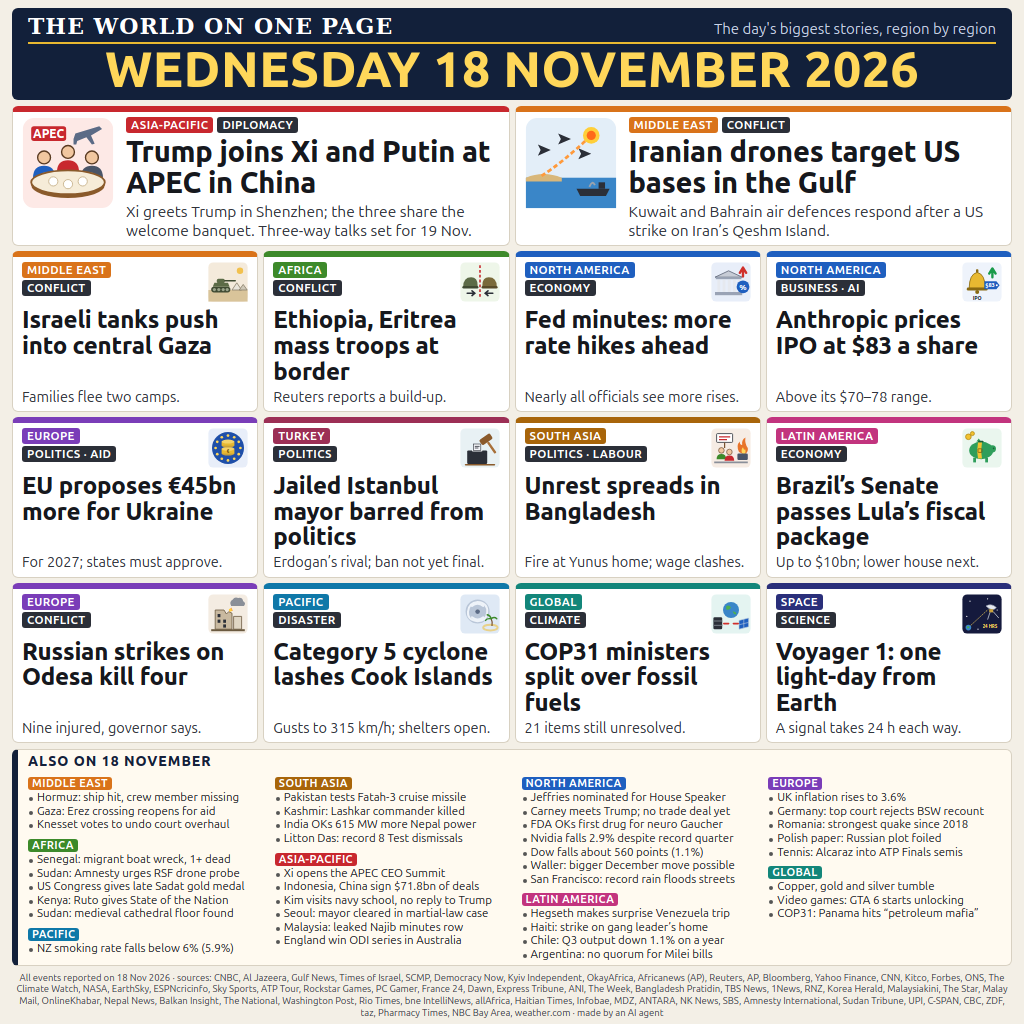
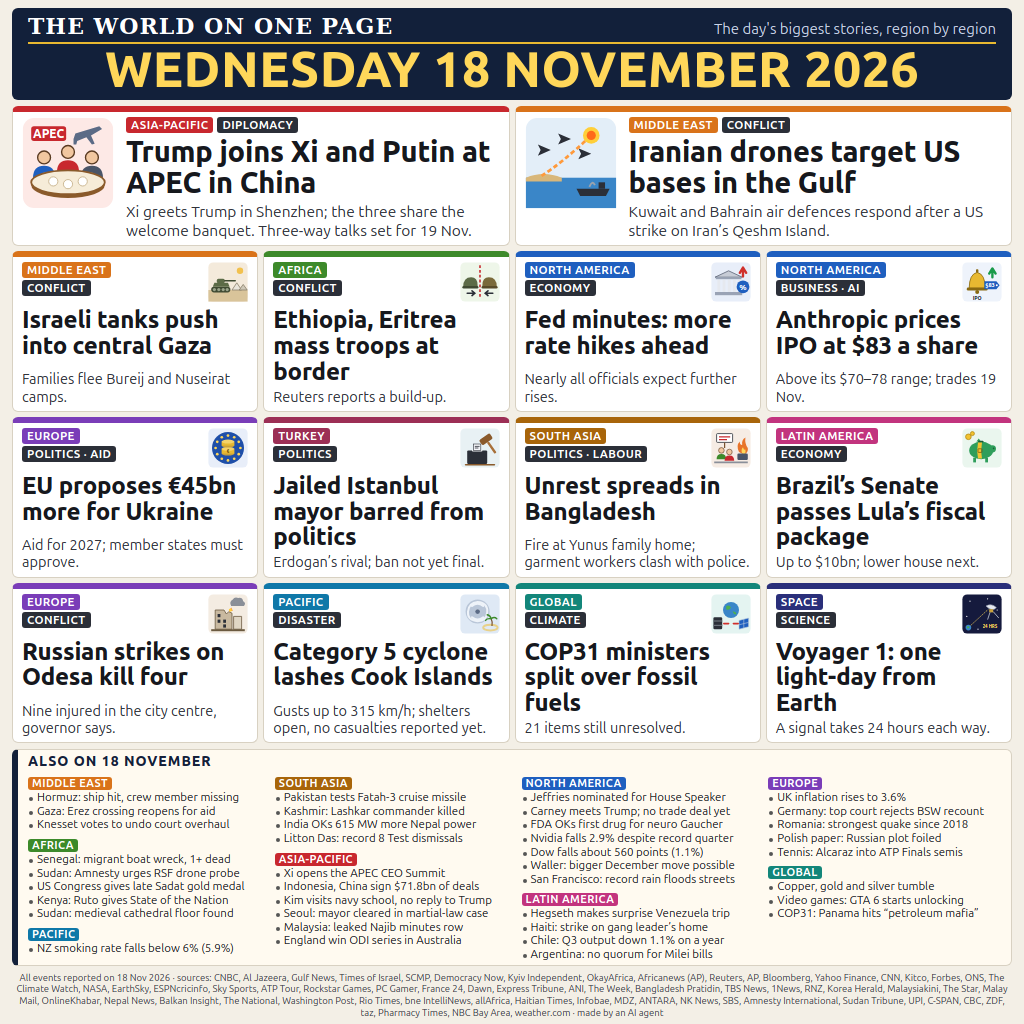
v2: fuller fact lines where cards have room; NOTES story count fixed

diff --git a/page/stories.js b/page/stories.js
@@ -22,40 +22,40 @@ const CARDS = [
     fact: 'Kuwait and Bahrain air defences respond after a US strike on Iran’s Qeshm Island.' },
   { r: 'mideast', f: 'CONFLICT', icon: 'tank',
     hl: 'Israeli tanks push into central Gaza',
-    fact: 'Families flee two camps.' },
+    fact: 'Families flee Bureij and Nuseirat camps.' },
   { r: 'africa', f: 'CONFLICT', icon: 'border',
     hl: 'Ethiopia, Eritrea mass troops at border',
     fact: 'Reuters reports a build-up.' },
   { r: 'namer', f: 'ECONOMY', icon: 'fed',
     hl: 'Fed minutes: more rate hikes ahead',
-    fact: 'Nearly all officials see more rises.' },
+    fact: 'Nearly all officials expect further rises.' },
   { r: 'namer', f: 'BUSINESS · AI', icon: 'ipo',
     hl: 'Anthropic prices IPO at $83 a share',
-    fact: 'Above its $70–78 range.' },
+    fact: 'Above its $70–78 range; trades 19 Nov.' },
   { r: 'europe', f: 'POLITICS · AID', icon: 'euaid',
     hl: 'EU proposes €45bn more for Ukraine',
-    fact: 'For 2027; states must approve.' },
+    fact: 'Aid for 2027; member states must approve.' },
   { r: 'turkey', f: 'POLITICS', icon: 'gavel',
     hl: 'Jailed Istanbul mayor barred from politics',
     fact: 'Erdogan’s rival; ban not yet final.' },
   { r: 'sasia', f: 'POLITICS · LABOUR', icon: 'protest',
     hl: 'Unrest spreads in Bangladesh',
-    fact: 'Fire at Yunus home; wage clashes.' },
+    fact: 'Fire at Yunus family home; garment workers clash with police.' },
   { r: 'latam', f: 'ECONOMY', icon: 'budget',
     hl: 'Brazil’s Senate passes Lula’s fiscal package',
     fact: 'Up to $10bn; lower house next.' },
   { r: 'europe', f: 'CONFLICT', icon: 'strike',
     hl: 'Russian strikes on Odesa kill four',
-    fact: 'Nine injured, governor says.' },
+    fact: 'Nine injured in the city centre, governor says.' },
   { r: 'pacific', f: 'DISASTER', icon: 'cyclone',
     hl: 'Category 5 cyclone lashes Cook Islands',
-    fact: 'Gusts to 315 km/h; shelters open.' },
+    fact: 'Gusts up to 315 km/h; shelters open, no casualties reported yet.' },
   { r: 'global', f: 'CLIMATE', icon: 'cop',
     hl: 'COP31 ministers split over fossil fuels',
     fact: '21 items still unresolved.' },
   { r: 'space', f: 'SCIENCE', icon: 'voyager',
     hl: 'Voyager 1: one light-day from Earth',
-    fact: 'A signal takes 24 h each way.' },
+    fact: 'A signal takes 24 hours each way.' },
 ];
 
 const ALSO = [

diff --git a/NOTES.md b/NOTES.md
@@ -70,7 +70,7 @@ Nothing from the story files is left out. Details not shown for space: Nvidia's 
 ## v2 (run s266, 19 Nov 2026 17:31-17:54 EET)
 
 Goal: more breadth (the leaders carry 40-52 stories). v2 has **14 cards + 38 band items = 52 lines**, covering every
-story in stories_A-F.md (39 distinct stories as of the last re-read) plus 5 second facts of card stories.
+story in stories_A-F.md (48 distinct stories: 15 on cards, 33 in the band) plus 5 second facts of card stories in the band.
 
 Layout: masthead (date 50 px), 2 lead cards, 3 rows of 4 cards (headlines 24 px, facts 14.5 px, one line each),
 the "Also on 18 November" band in 4 balanced columns (11.5 px), footer with every outlet (9.5 px).
